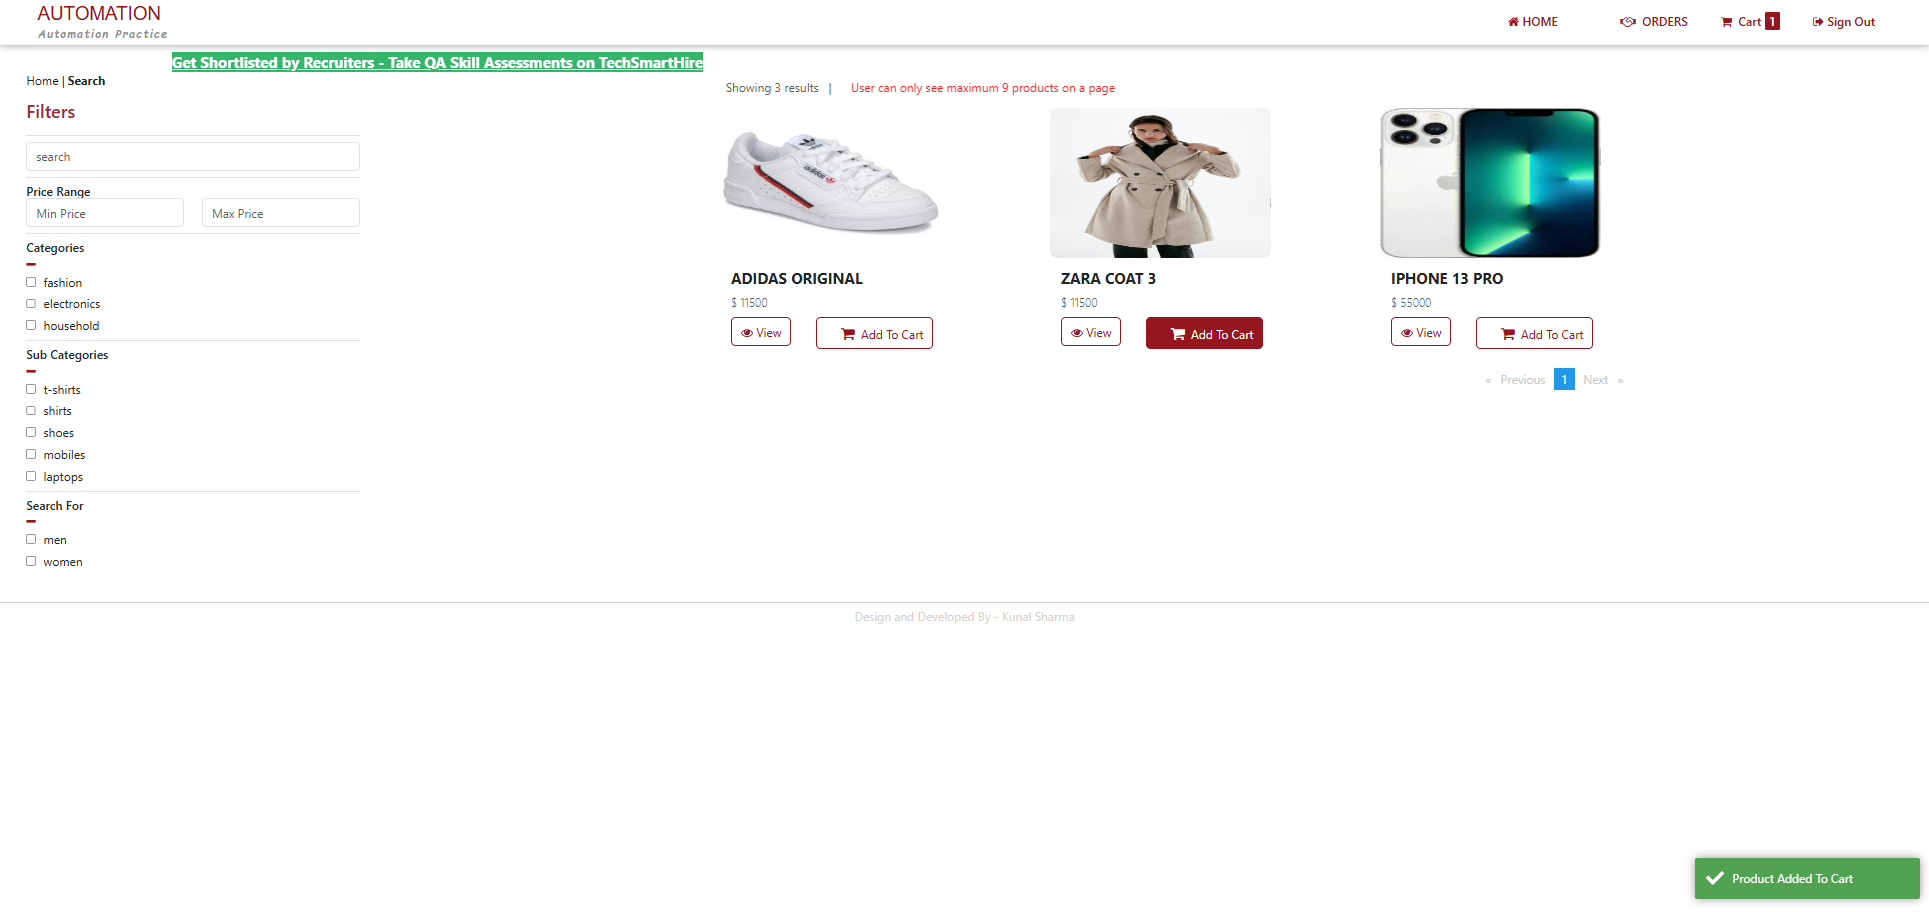
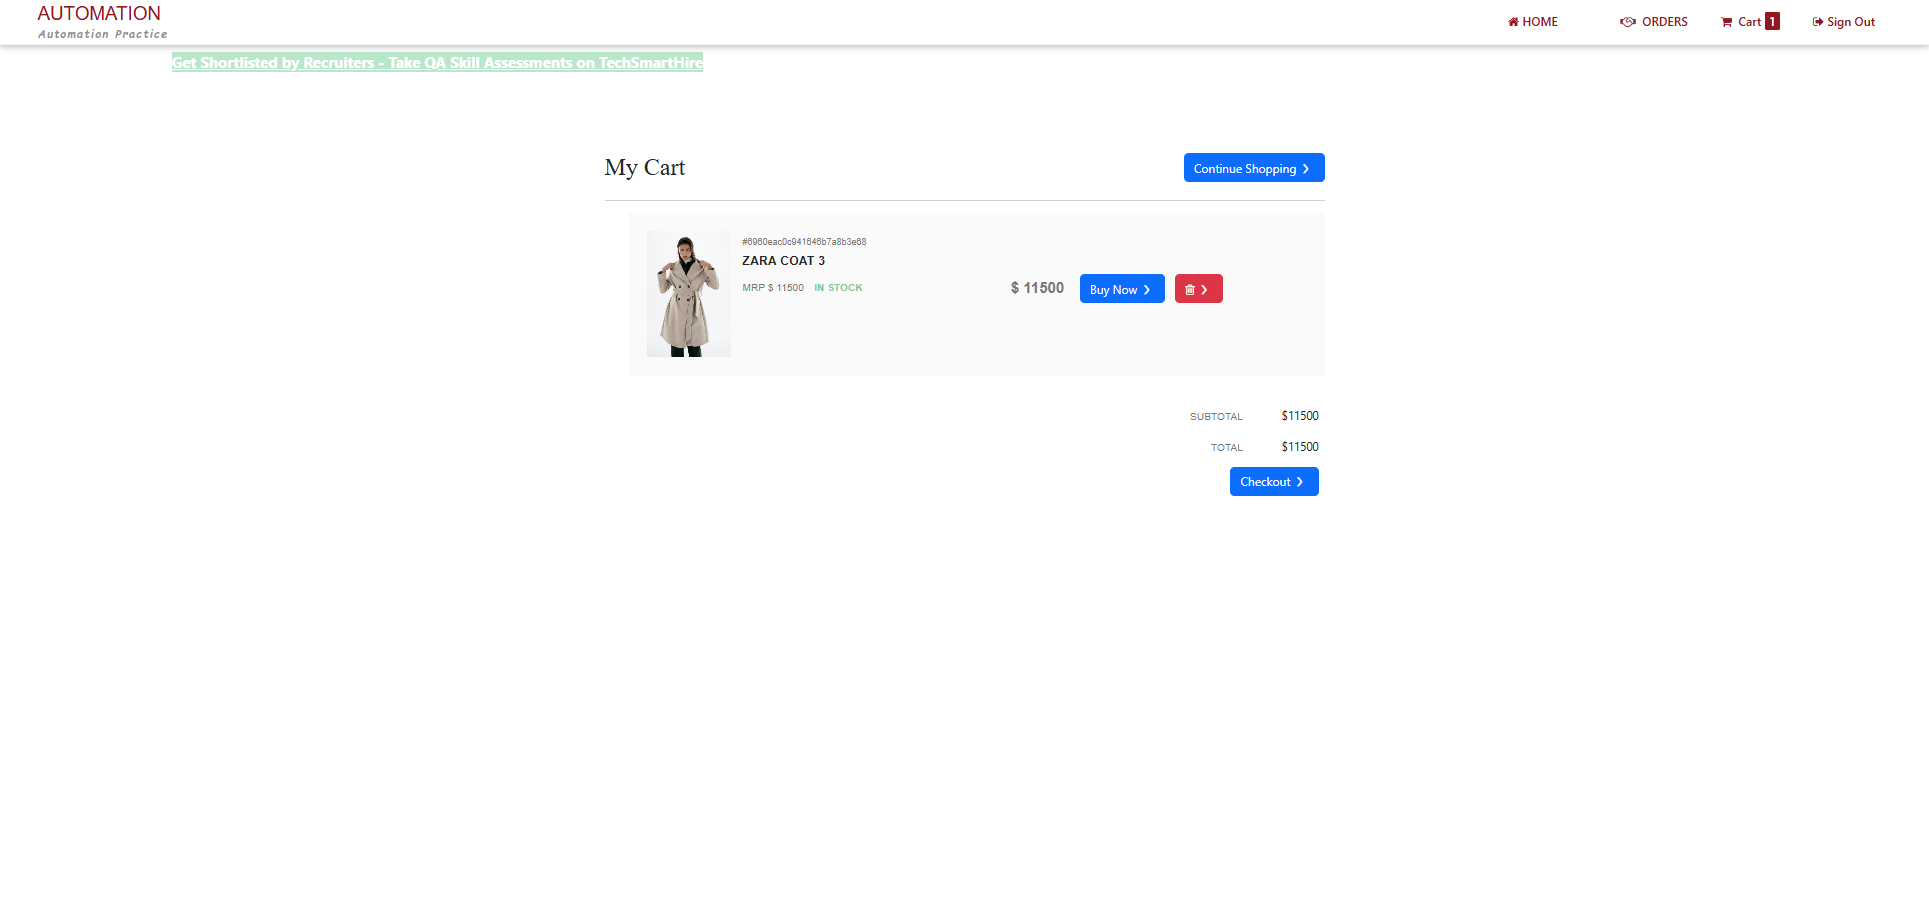
added profile for loginRegister in pom file

diff --git a/reports/index.html b/reports/index.html
@@ -35,7 +35,7 @@
 <a href="#"><span class="badge badge-primary">Srishti Web Automation Results</span></a>
 </li>
 <li class="m-r-10">
-<a href="#"><span class="badge badge-primary">May 4, 2026 11:08:01 pm</span></a>
+<a href="#"><span class="badge badge-primary">May 8, 2026 01:38:14 pm</span></a>
 </li>
 </ul>
 </div>
@@ -86,7 +86,7 @@
           <div class="test-detail">
             <p class="name">verifyProductDetailsInCart</p>
             <p class="text-sm">
-              <span>11:08:15 pm</span> / <span>00:00:03:433</span>
+              <span>1:38:20 pm</span> / <span>00:00:09:051</span>
               <span class="badge fail-bg log float-right">Fail</span>
             </p>
           </div>
@@ -95,9 +95,9 @@
 <div class="p-v-10">
 <div class="info">
 <h5 class="test-status text-fail">verifyProductDetailsInCart</h5>
-<span class='badge badge-success'>05.04.2026 11:08:15 pm</span>
-<span class='badge badge-danger'>05.04.2026 11:08:18 pm</span>
-<span class='badge badge-default'>00:00:03:433</span>
+<span class='badge badge-success'>05.08.2026 1:38:20 pm</span>
+<span class='badge badge-danger'>05.08.2026 1:38:29 pm</span>
+<span class='badge badge-default'>00:00:09:051</span>
 &middot; <span class='uri-anchor badge badge-default'>#test-id=1</span>
 <span title='Skip to the next failed step' class='badge badge-danger pointer float-right ne ml-1'><i class="fa fa-fast-forward"></i></span>
 <span title='Collapse all nodes' class='badge badge-default pointer float-right ct ml-1'><i class="fa fa-compress"></i></span>
@@ -114,39 +114,13 @@
   <tbody>
       <tr class="event-row">
         <td><span class="badge log fail-bg">Fail</span></td>
-        <td>11:08:18 pm</td>
+        <td>1:38:29 pm</td>
         <td>
-          <textarea readonly class="code-block">org.openqa.selenium.ElementClickInterceptedException: element click intercepted: Element <button _ngcontent-pqo-c33="" routerlink="/dashboard/cart" class="btn btn-custom" style="margin-top: -10px;" tabindex="0">...</button> is not clickable at point (2333, 27). Other element would receive the click: <div _ngcontent-pqo-c31="" class="ngx-spinner-overlay ng-tns-c31-1 ng-trigger ng-trigger-fadeIn ng-star-inserted ng-animating" style="background-color: rgba(51, 51, 51, 0.8); z-index: 99999; position: fixed;">...</div>
-  (Session info: chrome=147.0.7727.138)
-Build info: version: '4.18.1', revision: 'b1d3319b48'
-System info: os.name: 'Windows 11', os.arch: 'amd64', os.version: '10.0', java.version: '17.0.9'
-Driver info: org.openqa.selenium.chrome.ChromeDriver
-Command: [e557c9cc592f7a677d12f4ce8f225baa, clickElement {id=f.FD9E810DB81803DD73D1345697F97313.d.81DFCA4834377A94B96E77389DE38358.e.72}]
-Capabilities {acceptInsecureCerts: false, browserName: chrome, browserVersion: 147.0.7727.138, chrome: {chromedriverVersion: 147.0.7727.117 (474cc805edd..., userDataDir: C:\Users\hkv12\AppData\Loca...}, fedcm:accounts: true, goog:chromeOptions: {debuggerAddress: localhost:62447}, goog:processID: 1376, networkConnectionEnabled: false, pageLoadStrategy: normal, platformName: windows, proxy: Proxy(), se:cdp: ws://localhost:62447/devtoo..., se:cdpVersion: 147.0.7727.138, setWindowRect: true, strictFileInteractability: false, timeouts: {implicit: 0, pageLoad: 300000, script: 30000}, unhandledPromptBehavior: dismiss and notify, webauthn:extension:credBlob: true, webauthn:extension:largeBlob: true, webauthn:extension:minPinLength: true, webauthn:extension:prf: true, webauthn:virtualAuthenticators: true}
-Element: [[ChromeDriver: chrome on windows (e557c9cc592f7a677d12f4ce8f225baa)] -> css selector: button[routerlink*='cart']]
-Session ID: e557c9cc592f7a677d12f4ce8f225baa
-	at java.base/jdk.internal.reflect.NativeConstructorAccessorImpl.newInstance0(Native Method)
-	at java.base/jdk.internal.reflect.NativeConstructorAccessorImpl.newInstance(NativeConstructorAccessorImpl.java:77)
-	at java.base/jdk.internal.reflect.DelegatingConstructorAccessorImpl.newInstance(DelegatingConstructorAccessorImpl.java:45)
-	at java.base/java.lang.reflect.Constructor.newInstanceWithCaller(Constructor.java:499)
-	at java.base/java.lang.reflect.Constructor.newInstance(Constructor.java:480)
-	at org.openqa.selenium.remote.ErrorCodec.decode(ErrorCodec.java:167)
-	at org.openqa.selenium.remote.codec.w3c.W3CHttpResponseCodec.decode(W3CHttpResponseCodec.java:138)
-	at org.openqa.selenium.remote.codec.w3c.W3CHttpResponseCodec.decode(W3CHttpResponseCodec.java:50)
-	at org.openqa.selenium.remote.HttpCommandExecutor.execute(HttpCommandExecutor.java:190)
-	at org.openqa.selenium.remote.service.DriverCommandExecutor.invokeExecute(DriverCommandExecutor.java:216)
-	at org.openqa.selenium.remote.service.DriverCommandExecutor.execute(DriverCommandExecutor.java:174)
-	at org.openqa.selenium.remote.RemoteWebDriver.execute(RemoteWebDriver.java:519)
-	at org.openqa.selenium.remote.RemoteWebElement.execute(RemoteWebElement.java:223)
-	at org.openqa.selenium.remote.RemoteWebElement.click(RemoteWebElement.java:76)
-	at java.base/jdk.internal.reflect.NativeMethodAccessorImpl.invoke0(Native Method)
-	at java.base/jdk.internal.reflect.NativeMethodAccessorImpl.invoke(NativeMethodAccessorImpl.java:77)
-	at java.base/jdk.internal.reflect.DelegatingMethodAccessorImpl.invoke(DelegatingMethodAccessorImpl.java:43)
-	at java.base/java.lang.reflect.Method.invoke(Method.java:568)
-	at org.openqa.selenium.support.pagefactory.internal.LocatingElementHandler.invoke(LocatingElementHandler.java:51)
-	at jdk.proxy2/jdk.proxy2.$Proxy39.click(Unknown Source)
-	at sripackage.AbstractComponents.AbstractComponents.goToCartPage(AbstractComponents.java:116)
-	at SrishtiPackage.Tests.CartTest.verifyProductDetailsInCart(CartTest.java:21)
+          <textarea readonly class="code-block">java.lang.AssertionError: Product name mistmatch or No products in Cart expected [false] but found [true]
+	at org.testng.Assert.fail(Assert.java:111)
+	at org.testng.Assert.failNotEquals(Assert.java:1578)
+	at org.testng.Assert.assertFalse(Assert.java:79)
+	at SrishtiPackage.Tests.CartTest.verifyProductDetailsInCart(CartTest.java:22)
 	at java.base/jdk.internal.reflect.NativeMethodAccessorImpl.invoke0(Native Method)
 	at java.base/jdk.internal.reflect.NativeMethodAccessorImpl.invoke(NativeMethodAccessorImpl.java:77)
 	at java.base/jdk.internal.reflect.DelegatingMethodAccessorImpl.invoke(DelegatingMethodAccessorImpl.java:43)
@@ -206,12 +180,12 @@ Session ID: e557c9cc592f7a677d12f4ce8f225baa
 <span class="meta">
 <span class='badge log badge-danger'>1</span>
 </span>
-<p class="name">org.openqa.selenium.ElementClickInterceptedException</p>
+<p class="name">java.lang.AssertionError</p>
 <p class="duration text-sm">1 tests</p>
 </div>
 <div class="test-contents d-none">
 <div class="info">
-<h4>org.openqa.selenium.ElementClickInterceptedException</h4>
+<h4>java.lang.AssertionError</h4>
 <span status="fail" class='badge log badge-danger'>1 failed</span>
 </div>
 <table class='table table-sm mt-4'>
@@ -225,7 +199,7 @@ Session ID: e557c9cc592f7a677d12f4ce8f225baa
 <tbody>
 <tr class="tag-test-status" status="fail">
 <td><span class="badge log fail-bg">Fail</span></td>
-<td>23:08:15 pm</td>
+<td>13:38:20 pm</td>
 <td>
 <a href="#" class="linked" test-id='1' id='1'>verifyProductDetailsInCart</a>
 </td>
@@ -247,13 +221,13 @@ Session ID: e557c9cc592f7a677d12f4ce8f225baa
 <div class="col-md-3">
 <div class="card"><div class="card-body">
 <p class="m-b-0">Started</p>
-<h3>May 4, 2026 11:08:01 pm</h3>
+<h3>May 8, 2026 01:38:14 pm</h3>
 </div></div>
 </div>
 <div class="col-md-3">
 <div class="card"><div class="card-body">
 <p class="m-b-0">Ended</p>
-<h3>May 4, 2026 11:08:19 pm</h3>
+<h3>May 8, 2026 01:38:31 pm</h3>
 </div></div>
 </div>
 <div class="col-md-3">
@@ -323,7 +297,7 @@ Session ID: e557c9cc592f7a677d12f4ce8f225baa
 </div></div>
 <script>
 var timeline = {
-"verifyProductDetailsInCart":3.433
+"verifyProductDetailsInCart":9.051
 };
 </script>
 <div class="row">

diff --git a/src/test/java/SrishtiPackage/Tests/RegistrationNegativeTest.java b/src/test/java/SrishtiPackage/Tests/RegistrationNegativeTest.java
@@ -14,7 +14,7 @@ import sripackage.pageobjects.RegistrationPage;
 public class RegistrationNegativeTest extends BaseTest {
 
 	@Test(priority=1, dataProvider = "getRegistrationMandatoryValidationFieldData", dataProviderClass = DataProviderUtility.class
-			,enabled=false)
+			)
 	public void registerWithAllEmptyFields(HashMap<String,String> expectedMap) {
 		RegistrationPage registrationPage=new RegistrationPage(driver);
 		registrationPage.clickRegisterLinkFromLoginPage();
@@ -31,7 +31,7 @@ public class RegistrationNegativeTest extends BaseTest {
 		
 		}
 	@Test(priority=2, dataProvider = "getInvalidRegistrationData", dataProviderClass = DataProviderUtility.class
-			,enabled=true)
+			)
 	public void registerWithInvalidInputsShouldShowInlineErrors(HashMap<String,String> invalidRegisterMap) {
 		RegistrationPage registrationPage=new RegistrationPage(driver);
 		registrationPage.clickRegisterLinkFromLoginPage();
@@ -57,7 +57,7 @@ public class RegistrationNegativeTest extends BaseTest {
 	}
 	
 	@Test(priority=3, dataProvider = "getRegistrationData", dataProviderClass = DataProviderUtility.class
-			,enabled=false)
+			)
 	public void registerWithalreadyRegisteredEmail(HashMap<String,String> map) {
 		RegistrationPage registrationPage=new RegistrationPage(driver);
 		 // ── PREREQUISITE — register user for first time ──────────────────
@@ -76,7 +76,7 @@ public class RegistrationNegativeTest extends BaseTest {
 		        + " | Email used: " + map.get("email"));
 	}
 	
-	@Test(priority=4,enabled=false)
+	@Test(priority=4)
 	public void verifyPasswordMasking(HashMap<String,String> map) {
 		RegistrationPage registrationPage=new RegistrationPage(driver);
 		registrationPage.clickRegisterLinkFromLoginPage();

diff --git a/src/test/java/SrishtiPackage/Tests/LoginPositiveTest.java b/src/test/java/SrishtiPackage/Tests/LoginPositiveTest.java
@@ -10,6 +10,7 @@ import SrishtiPackage.data.DataProviderUtility;
 import sripackage.AbstractComponents.AbstractComponents;
 import sripackage.pageobjects.LandingPage;
 import sripackage.pageobjects.LoginPage;
+import sripackage.pageobjects.ProductCataloguePage;
 import sripackage.pageobjects.RegistrationPage;
 
 public class LoginPositiveTest extends BaseTest{
@@ -21,13 +22,13 @@ public class LoginPositiveTest extends BaseTest{
 	public void loginWithValidCredential() {
 		
 	    landingPage=new LandingPage(driver);
-		landingPage.loginApplication(prop.getProperty("userEmail"), prop.getProperty("userPassword"));
-		ac=new AbstractComponents(driver);
+	    ProductCataloguePage pc=landingPage.loginApplication(prop.getProperty("userEmail"), prop.getProperty("userPassword"));
+		//ac=new AbstractComponents(driver);
 		
-		Assert.assertTrue(ac.isUserLoggedIn(), "Login was not successful and Signout header not visible");
-		Assert.assertTrue(ac.isHomeHeaderVisible(), "Login was not successful and Home header not visible");
-		Assert.assertTrue(ac.isOrdersHeaderVisible(), "Login was not successful and Orders header not visible");
-		Assert.assertTrue(ac.isCartHeaderVisible(), "Login was not successful and Cart header not visible");
+		Assert.assertTrue(pc.isUserLoggedIn(), "Login was not successful and Signout header not visible");
+		Assert.assertTrue(pc.isHomeHeaderVisible(), "Login was not successful and Home header not visible");
+		Assert.assertTrue(pc.isOrdersHeaderVisible(), "Login was not successful and Orders header not visible");
+		Assert.assertTrue(pc.isCartHeaderVisible(), "Login was not successful and Cart header not visible");
 		
 	}
 	//LOG_TC_010

diff --git a/src/test/java/SrishtiPackage/Tests/RegistrationPositiveTest.java b/src/test/java/SrishtiPackage/Tests/RegistrationPositiveTest.java
@@ -9,6 +9,7 @@ import SrishtiPackage.TestComponents.BaseTest;
 import SrishtiPackage.data.DataProviderUtility;
 import sripackage.AbstractComponents.AbstractComponents;
 import sripackage.pageobjects.LandingPage;
+import sripackage.pageobjects.ProductCataloguePage;
 import sripackage.pageobjects.RegistrationPage;
 
 public class RegistrationPositiveTest extends BaseTest{
@@ -45,9 +46,9 @@ public class RegistrationPositiveTest extends BaseTest{
 		registrationPage.clickRegisterLinkFromLoginPage();
 		registrationPage.userRegisterWithMandatoryDetails(map);
 		LandingPage landingPage=registrationPage.nagivateToLoginPageAfterUserRegister();
-		landingPage.loginApplication(map.get("email"),map.get("password"));
-		AbstractComponents ac=new AbstractComponents(driver);
-		Boolean flag=ac.isUserLoggedIn();
+		ProductCataloguePage pc=landingPage.loginApplication(map.get("email"),map.get("password"));
+		//AbstractComponents ac=new AbstractComponents(driver);
+		Boolean flag=pc.isUserLoggedIn();
 		Assert.assertTrue(flag, "Login was not successful");
 	}
 	

diff --git a/src/main/java/sripackage/resources/ExtentReporterNG.java b/src/main/java/sripackage/resources/ExtentReporterNG.java
@@ -1,3 +1,4 @@
+
 package sripackage.resources;
 
 import com.aventstack.extentreports.ExtentReports;
@@ -10,6 +11,7 @@ public class ExtentReporterNG {
 		ExtentSparkReporter reporter=new ExtentSparkReporter(path);
 		reporter.config().setReportName("Srishti Web Automation Results");
 		reporter.config().setDocumentTitle("Srishti Test Results");
+		
 		
 		ExtentReports extent=new ExtentReports();
 		extent.attachReporter(reporter);

diff --git a/src/test/java/SrishtiPackage/data/DataReader.java b/src/test/java/SrishtiPackage/data/DataReader.java
@@ -20,6 +20,7 @@ public class DataReader {
 	//
 	public static List<HashMap<String, String>> getDataJsonToMap(String filePath) throws IOException {
 
+		
 		// read json to string
 		String jsonContent = FileUtils.readFileToString(new File(filePath), StandardCharsets.UTF_8);
 

diff --git a/src/main/java/sripackage/AbstractComponents/AbstractComponents.java b/src/main/java/sripackage/AbstractComponents/AbstractComponents.java
@@ -45,7 +45,7 @@ public class AbstractComponents {
 	@FindBy(xpath = "//button[text()=' HOME ']")
     WebElement homeHeader;
 
-	
+//	public abstract boolean isPageLoaded();
 	   
 	public boolean isUserLoggedIn() {
 		waitForWebElementToAppear(signOutButton);

diff --git a/src/main/java/sripackage/pageobjects/CartPage.java b/src/main/java/sripackage/pageobjects/CartPage.java
@@ -92,6 +92,8 @@ public class CartPage extends AbstractComponents {
 	}
 
 	
+
+	
 	
 	
 	
